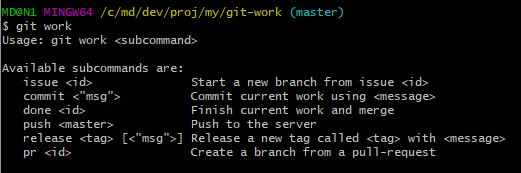
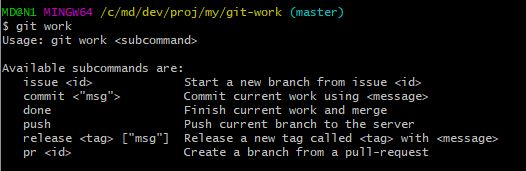
new post

diff --git a/_posts/2017/2017-08-07-git-work-project.md b/_posts/2017/2017-08-07-git-work-project.md
@@ -1,7 +1,7 @@
 ---
 layout: post
 title: Git-work Project
-date: 2017-08-05
+date: 2017-08-07
 permalink: /:title
 description:
   Git-work são extensões minimalistas para Git, fornecendo operações de repositório de alto nível.
@@ -39,13 +39,13 @@ Git-work são extensões minimalistas para Git, fornecendo operações de reposi
 
 Ele é o padrão atual para o controle de versão de softwares. Não há nenhum outro concorrente que seja tão simples e eficaz.
 
-Apesar de ser um magnífico sistema, por muito tempo não havia um padrão definido em como utilizá-lo num trabalho em equipe — ou mesmo sozinho — ou seja, como enviar uma alteração feita por você; como ser eficaz ao trabalhar com *branches*; se devemos trabalhar diretamente no `master` ou em *branches* secundários; como iniciar uma alteração quando o projeto recebe uma *issue*, etc.
+Apesar de ser um magnífico sistema, por muito tempo não havia um padrão definido em como trabalhar em equipe ou mesmo sozinho, ou seja, como enviar de forma eficiente uma alteração feita por você; como ser eficaz ao trabalhar com *branches*; se devemos trabalhar diretamente no `master` ou em *branches* secundários; como iniciar uma alteração quando o projeto recebe uma *issue*, etc.
 
-Então, agora, temos um padrão chamado `git flow`. Ele vem instalado nas últimas versões do Git e você pode configurá-lo digitando `git flow`.
+Hoje em dia temos um padrão chamado `git flow`. Ele vem instalado nas últimas versões do Git e você pode configurá-lo digitando `git flow` na linha-de-comando.
 
 No entanto, ainda que o `git flow` não seja um padrão complicado de se utilizar, ele não nos deixa customizá-lo de forma simples num único lugar (são alguns arquivos *bash* que devem ser editados), é verboso e não define um padrão para as mensagens dos *commits*.
 
-Nesse artigo eu irei lhe apresentar o meu mais novo "*pet project*" chamado **git-work**, que é uma alternativa minimalista ao `git flow`.
+Nesse artigo eu irei lhe apresentar o meu mais novo "*pet project*" chamado [**git-work**](https://github.com/mdbs99/git-work), que é uma alternativa minimalista ao `git flow`.
 
 ## O que é Git-work {#git-work}
 
@@ -75,7 +75,7 @@ Então como eu poderia utilizar a linha-de-comando, mas automatizar os comandos 
 
 A ideia de construir o [**git-work**](https://github.com/mdbs99/git-work) me ocorreu após uma tarde de intenso trabalho e uso do Git em um projeto particular.
 
-Trabalhei em algumas *issues* >>>>>>>>
+Trabalhei em algumas *issues* >>>>>>>>>>
 
 ## Características {#features}
 
@@ -83,7 +83,7 @@ Inicialmente eu pensei em codificar o [**git-work**](https://github.com/mdbs99/g
 
 O Git é bem integrado com *Bash* então... Por quê não?
 
-Então criei o projeto no Github, codifiquei as primeiras características e subi os fontes.
+Criei o projeto no Github, codifiquei as primeiras características e subi os fontes.
 
 Então meu amigo [Fabrício Cabral](https://github.com/fabriciofx/) se interessou pelo projeto e começou a trabalhar e melhorar o código.
 
@@ -95,38 +95,34 @@ Após "instalar", digite `git work` para ver os comandos:
 
 Esses comandos ainda serão aperfeiçoados, pois estão em constante desenvolvimento.
 
-Por exemplo, para terminar um trabalho num determinado *branch* chamado "123" precisamos digitar: `git work done 123`. Mas em versões futuras não será necessário digitar o *branch* atual, facilitando ainda mais a digitação. O mesmo para o commando `release`.
-
 ### Fluxo de Trabalho {#flow}
 
 Após um usuário registrar a *issue* #41 no seu sistema de *tickets*, você inicia um fluxo:
 
-1. Digite `git work issue 41`: git-work irá criar uma nova *branch* com o nome "41" a partir da `master` e fazer o *checkout*;
+1. Digite `git work issue 41` para criar uma nova *branch* com o nome `41` a partir da `master`, já com *checkout* automático para o `41`;
 2. Enquanto você vai alterando os fontes, poderá digitar `git work commit "mensagem"` para ir comitando seu trabalho;
-3. Quando você tiver terminado o trabalho, digite `git work done 41`: git-work irá para o `master` e irá fazer o *merge* com a *branch* 41.
-4. Então você pode enviar suas alterações para o servidor digitando: `git work push master`.
-5. Quando tiver uma versão de *release* o comando `git work release 1.0` poderá ser utilizado. O git-work irá criar uma nova *tag* e enviar ao servidor.
+3. Quando você tiver terminado o trabalho, digite `git work done` para ir para o `master` enquanto o sistema faz o *merge* com a atual *branch* `41`.
+4. Então você pode enviar suas alterações para o servidor digitando `git work push` para enviar a *branch* atual, que é a `master`.
+5. Quando tiver uma versão de *release*, o comando `git work release 1.0` poderá ser utilizado. O git-work irá criar uma nova *tag* a partir da `master` e enviar ao servidor.
 
 Pode não parecer muito agora. Os comandos são muito similares aos comandos do próprio Git, porém tudo ainda está em desenvolvimento.
 
-Almejamos deixar os comandos mais simples, com [menos parâmetros](https://github.com/mdbs99/git-work/issues/3). Então, num futuro breve, os comandos acima serão resumidos em apenas isso:
-
-<script src="https://gist.github.com/mdbs99/0148935b556fd4892f260057945ac329.js"></script>
-
-E, claro, os scripts irão verificar, na medida do possível, se você está utilizando os comandos certos, nos *branches* corretos.
+Os scripts irão verificar, na medida do possível, se você está utilizando os comandos certos, nos *branches* corretos.
 
 O *branch* padrão poderá ser [configurado](https://github.com/mdbs99/git-work/issues/9) (padrão `master`) para que os comandos `done`, `push` e `release` saibam onde pegar os fontes atuais.
 
 As mensagens do `commit` poderão ser [padronizadas](https://github.com/mdbs99/git-work/issues/8) com o número da *issue* no início. Exemplo: *"#41 this fix...".*
 
-E se todos os (futuros) parâmetros customizáveis ainda não sejam suficientes, basta você alterar apenas o [único arquivo](https://github.com/mdbs99/git-work/blob/master/git-work.sh) desse projeto. 
+E se todos os (futuros) parâmetros customizáveis ainda não sejam suficientes para suas customizações, bastará você alterar apenas o [único arquivo](https://github.com/mdbs99/git-work/blob/master/git-work.sh) nesse projeto.
+
+Ainda há um grande caminho a percorrer.
 
 ## Conclusão {#conclusao}
 
 Essa é apenas a versão `0.1` desse projeto que só tem poucos dias de vida.
 
-Padronização, eficiência e simplicidade. É a proposta desse projeto.
+Padronização, eficiência e simplicidade. Essa é a proposta desse projeto.
 
-Aqui está o link do projeto: [https://github.com/mdbs99/git-work](https://github.com/mdbs99/git-work).
+[https://github.com/mdbs99/git-work](https://github.com/mdbs99/git-work).
 
 Até logo.
